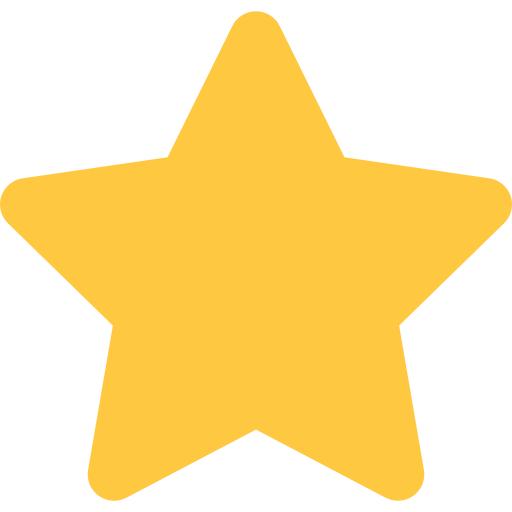
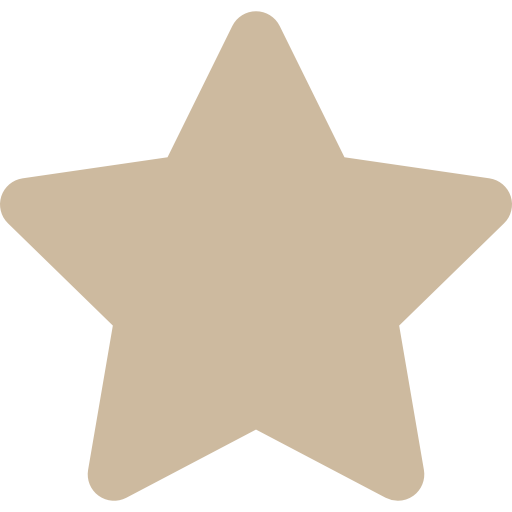
Further Profile Integrations and System Patches
This incarnation of the Midnight Watch browser brings improvements to per-profile data storage and patches a really really annoying bug (hopefully) that I identified right after the last update.

The first improvement comes in the form of the new additions to what the profile system can store. Both bookmarks and saved tabs are now unique to each profile, with each profile now storing the references to each one. With these in mind, their individual json files have been removed and their internal references have been rewritten to instead use and pass internal variables between functions, before saving at the end. This further improves security by reducing the potential attack vectors for malware injection through hijacking the json files.

Additionally, I've patched a bug that caused profile duplication and frequently crashed the system during profile swapping as a result of the browser accidentally sending duplicate references to the restart system, causing it to shut down and boot up itself twice, leaving a hanging reference and memory leaking until the system was manually terminated with the terminal shutdown. This has now been patched, along with the actual internal system for handling shutdown vs profile swap rebooting being simplified and improved.

Next additions to be made:
[…]

diff --git a/Main_Repo/src/main.py b/Main_Repo/src/main.py
@@ -67,6 +67,21 @@ eColsStyle = []
 
 
 # ---- MAIN FUNCTIONS ----
+
+def saveData(profileID, profileConfig):
+    with open(f"{srcSourceDir}/data/profileData.json", "r") as f:
+        profileData = dict(json.load(f))
+    
+    if profileID in profileData:
+        profileData[profileID] = profileConfig
+        profileData[profileID].pop("id", None)
+        with open(f"{srcSourceDir}/data/profileData.json", "w") as f:
+            json.dump(profileData, f, indent=4)
+        print(f"Settings applied and saved to profile ID: {profileID}")
+    else:
+        print(f"Warning: Profile ID {profileID} not found in profileData.json")
+
+
 def updateDoHSettings(provider):
     doh_providers = {
         "Default": {
@@ -608,6 +623,9 @@ class objectMasterBridge(QObject):
             print(f"Warning: Profile ID {self.browser.currentProfileID} not found in profileData.json")
     
 
+    
+
+
 class profileSelectUI(QDialog):
     def __init__(self):
         super().__init__()
@@ -820,6 +838,10 @@ class profileSelectUI(QDialog):
         return None
 
 
+
+
+
+
 class Browser(QMainWindow):
     def __init__(self, profile_config: dict):
         super().__init__()
@@ -832,6 +854,10 @@ class Browser(QMainWindow):
 
         #update main loader json file with the info selected from the profile
         profileData = profile_config["stored_data"]
+        self.profile_config = profile_config
+
+        self.is_restarting = False
+        self.pending_restart = False
 
         with open(f"{srcSourceDir}/data/actionToggles.json","w") as f:
             json.dump(profileData, f, indent=4)
@@ -933,7 +959,7 @@ class Browser(QMainWindow):
 
         self.nav_bar = self.barManager.setup_navbar()
 
-        self.bookmarks_bar = self.barManager.setup_bookmarksbar()
+        self.bookmarks_bar = self.barManager.setup_bookmarksbar(self.profile_config["saved_bookmarks"])
 
         self.status_bar = self.barManager.setup_statusbar(profile_icon=f"{srcSourceDir}/{profile_config['photoURL']}", name=profile_config["Name"])
 
@@ -1104,8 +1130,7 @@ class Browser(QMainWindow):
         #Load all tabs from most recent shutdown if possible
         if saveTabsOnRestart:
             try:
-                with open(f"{srcSourceDir}/data/bootupTabs.json", "r") as f:
-                    savetabs = json.load(f)
+                savetabs = self.profile_config["saved_tabs"]
                     
                 for url, title in savetabs.items():
                     self.add_new_tab(QUrl(url), title)
@@ -1124,40 +1149,39 @@ class Browser(QMainWindow):
         self.update_tab_icon(self.current_browser)
 
     def shutdown_Systems(self, restart=False):
+            
         if saveTabsOnRestart:
-            #save all urls to a json file for attempted re-opening on browser start
             savetabs = {}
-            for tab in range (self.tabs.count()):
-                if "midnightwatch://" in self.tabs.widget(tab).url().toString():
-                    pass #Skip custom url scheme pages
-                else:
+            for tab in range(self.tabs.count()):
+                if "midnightwatch://" not in self.tabs.widget(tab).url().toString():
                     savetabs[self.tabs.widget(tab).url().toString()] = str(self.tabs.tabText(tab))
-                    print(f"Saving: {str(self.tabs.tabText(tab))}")
-
-            with open(f"{srcSourceDir}/data/bootupTabs.json", "w") as f:
-                json.dump(savetabs, f, indent=4)
-
-        # Clean up all remaining pages before closing to prevent profile release errors
-        for tab_index in range(self.tabs.count()):
-            browser = self.tabs.widget(tab_index)
-            if browser and hasattr(browser, 'page') and browser.page():
-                browser.page().deleteLater()
+            
+            self.profile_config["saved_tabs"] = savetabs
+            
+            #Update profileData json with new settings for current profile using ID
+            saveData(self.currentProfileID, self.profile_config)
 
         self.restart_requested = restart
         #Clear HTTP cache to avoid potential clientside injection attacks
         self.profile.clearHttpCacheCompleted.connect(self.finish_shutdown)
         self.profile.clearHttpCache()
-
-    def finish_shutdown(self):
-            QApplication.quit()
+        #extra assurance shutdown command to avoid hanging on shutdown in case of httpcache clear failure
+        QTimer.singleShot(3000, self.finish_shutdown)
 
     def fullRestart(self, profile_config):
+        self.is_restarting = True
+        self.pending_restart = True
+        print("FULL RESTART CALLED")
         with open(f"{srcSourceDir}/data/currentProfile.json","w") as f:
             json.dump(profile_config, f, indent=4)
+        
+        self.shutdown_Systems()
 
-        QTimer.singleShot(800, lambda: QProcess.startDetached(sys.executable, sys.argv)) #give the system time to clean up service workers!
+    def finish_shutdown(self):
+        if getattr(self,"pending_restart", False):
+            print("STARTDETACHED FIRING")
+            QProcess.startDetached(sys.executable, sys.argv)
         QApplication.quit()
-
 
 
 
@@ -1462,7 +1486,7 @@ class Browser(QMainWindow):
 
     def update_tab_sizes(self):
         #Guard clause to only run these updates if the user is on a horizontal tab system
-        if self.settingsData["Tab-Position"] in ["East", "West"]:
+        if ["Tab-Position"] in ["East", "West"]:
             return
         tab_width = self.calculate_tab_width()
         tabbar = self.tabs.tabBar()
@@ -1541,8 +1565,7 @@ class Browser(QMainWindow):
         with open(f"{srcSourceDir}/data/colourProfiles.json", "r") as f:
             Colourdata = json.load(f)
         try:
-            with open(f"{srcSourceDir}/data/bookmarks.json", "r") as f:
-                bookmarkData = json.load(f)
+            bookmarkData = self.profile_config["saved_bookmarks"]
 
             #load bookmarks and compare against normalised
             normalised_bookmarks = {bid: self.UrlManager.normalise_url(data["url"]) for bid, data in bookmarkData.items()}
@@ -1635,8 +1658,7 @@ class Browser(QMainWindow):
             return
         
         try:
-            with open(f"{srcSourceDir}/data/bookmarks.json", "r") as f:
-                data = json.load(f)
+            data = self.profile_config["saved_bookmarks"]
         except:
             data = {}
 
@@ -1647,24 +1669,23 @@ class Browser(QMainWindow):
             "url": url
         }
 
-        with open(f"{srcSourceDir}/data/bookmarks.json", "w") as f:
-            json.dump(data, f, indent=4)
+        self.profile_config["saved_bookmarks"] = data
 
         #reload bookmarks bar to show new bookmark
-        self.barManager.refresh_bookmarksbar()
+        self.barManager.refresh_bookmarksbar(self.profile_config["saved_bookmarks"])
         self.update_url_bar_buttons(self.current_browser.url().toString(), self.current_browser)
+        saveData(self.currentProfileID, self.profile_config)
 
     def remove_bookmark(self, id):
-        with open(f"{srcSourceDir}/data/bookmarks.json", "r") as f:
-            data = json.load(f)
+        data = self.profile_config["saved_bookmarks"]
 
         del data[id]
 
-        with open(f"{srcSourceDir}/data/bookmarks.json", "w") as f:
-            json.dump(data, f, indent=4)
+        self.profile_config["saved_bookmarks"] = data
         
-        self.barManager.refresh_bookmarksbar()
+        self.barManager.refresh_bookmarksbar(self.profile_config["saved_bookmarks"])
         self.update_url_bar_buttons(self.current_browser.url().toString(), self.current_browser)
+        saveData(self.currentProfileID, self.profile_config)
 
     
 
@@ -2010,8 +2031,7 @@ class Browser(QMainWindow):
                     if "midnightwatch://" not in self.tabs.widget(tab).url().toString():
                         savetabs[self.tabs.widget(tab).url().toString()] = str(self.tabs.tabText(tab))
                 
-                with open(f"{srcSourceDir}/data/bootupTabs.json", "w") as f:
-                    json.dump(savetabs, f, indent=4)
+                self.profile_config["saved_tabs"] = savetabs
             
             # Close current browser window
             launcher = profileSelectUI()

diff --git a/Main_Repo/src/ui_core.py b/Main_Repo/src/ui_core.py
@@ -309,7 +309,7 @@ class BarManager:
         date_width = date_metrics.horizontalAdvance(date_text) + 16
         self.dateBox.setFixedWidth(date_width)
     
-    def setup_bookmarksbar(self):
+    def setup_bookmarksbar(self, bookmarksData):
         self.bookmarks_bar = QToolBar("Bookmarks")
         self.bookmarks_bar.setMovable(False)
         self.bookmarks_bar.setStyleSheet("background:rgb(1, 1, 100)")
@@ -317,8 +317,7 @@ class BarManager:
         self.eColsButton.append("bookmarks_btn")
 
         try:
-            with open (f"{srcSourceDir}/data/bookmarks.json", "r") as f:
-                bookmarkData = dict(json.load(f))
+            bookmarkData = bookmarksData
             
             for bid, data in bookmarkData.items():
                 name = data["name"]
@@ -343,7 +342,7 @@ class BarManager:
 
                 #Right click context menu 
                 Bbutton.setContextMenuPolicy(Qt.CustomContextMenu)
-                Bbutton.customContextMenuRequested.connect(partial(self.show_bookmark_menu, Bbutton, bid))
+                Bbutton.customContextMenuRequested.connect(partial(self.show_bookmark_menu, Bbutton, bid, bookmarkData))
 
                 self.bookmarks_bar.addAction(Bbutton_action)
 
@@ -352,11 +351,10 @@ class BarManager:
 
         return self.bookmarks_bar
     
-    def show_bookmark_menu(self, button, bid, pos):
+    def show_bookmark_menu(self, button, bid, pos, bookmarksData):
         menu = QMenu()
 
-        with open(f"{srcSourceDir}/data/bookmarks.json", "r") as f:
-            data = json.load(f)
+        data = bookmarksData
 
         bookmark = data[bid]
         name = bookmark["name"]
@@ -376,10 +374,9 @@ class BarManager:
             if new_name:
                 data[bid]["name"] = new_name
 
-                with open(f"{srcSourceDir}/data/bookmarks.json", "w") as f:
-                    json.dump(data, f, indent=4)
+                bookmarkData = data
 
-                self.refresh_bookmarksbar()
+                self.refresh_bookmarksbar(bookmarkData)
 
         elif action == delete:
             self.parent.remove_bookmark(bid)
@@ -387,12 +384,10 @@ class BarManager:
         elif action == open_tab:
             self.parent.add_new_tab(qurl=url, label=name)
 
-    def refresh_bookmarksbar(self):
+    def refresh_bookmarksbar(self, bookmarksData):
         self.bookmarks_bar.clear()
         try:
-            with open(f"{srcSourceDir}/data/bookmarks.json", "r") as f:
-                bookmarkData = json.load(f)
-
+            bookmarkData = bookmarksData
             for bid, data in bookmarkData.items():
                 name = data["name"]
                 url = data["url"]
@@ -426,7 +421,7 @@ class BarManager:
 
             #link to right click context menu after refreshing
             btn.setContextMenuPolicy(Qt.CustomContextMenu)
-            btn.customContextMenuRequested.connect(partial(self.show_bookmark_menu, btn, bid))
+            btn.customContextMenuRequested.connect(partial(self.show_bookmark_menu, btn, bid, bookmarkData))
         except (json.decoder.JSONDecodeError, UnboundLocalError):
             print("Can't refresh bookmarks as none exist in the json file!")
             pass